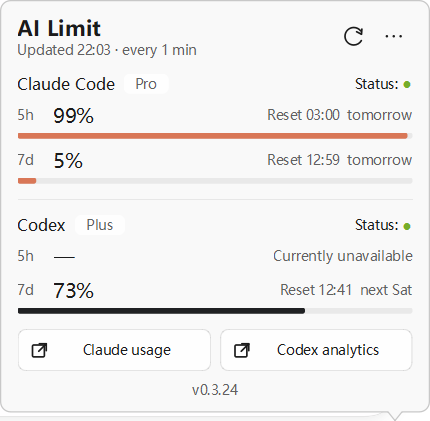
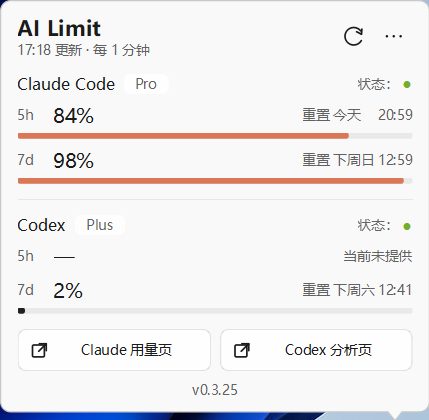
fix: replace correct Windows panel screenshot

diff --git a/README.zh-CN.md b/README.zh-CN.md
@@ -66,7 +66,7 @@ Windows 版用两个紧凑的任务栏托盘图标分别显示 Claude Code 和 C
 
 <table>
   <tr>
-    <td align="center"><img src="docs/screenshot-windows-panel-v0325-zh.png" width="250" alt="AI Limit Windows 中文额度面板" /></td>
+    <td align="center"><img src="docs/screenshot-windows-panel-v0324-zh.png" width="250" alt="AI Limit Windows 中文额度面板" /></td>
     <td align="center"><img src="docs/screenshot-windows-menu-v0324-zh.png" width="304" alt="AI Limit Windows 中文托盘菜单" /></td>
   </tr>
   <tr>
